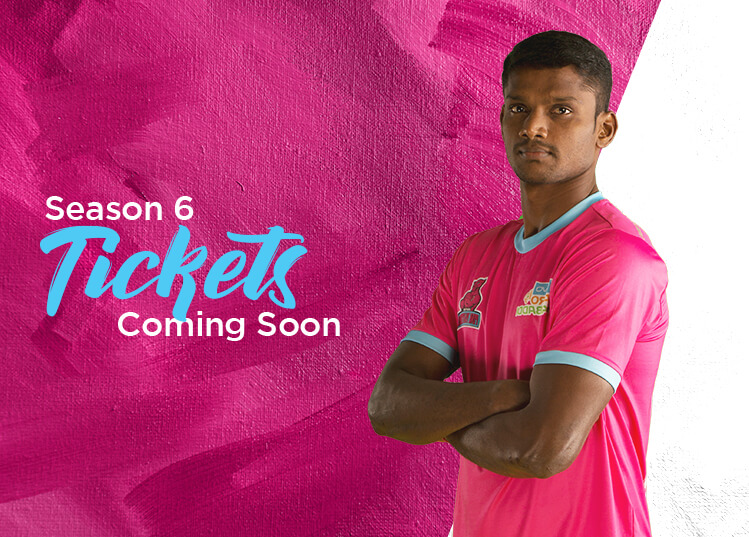
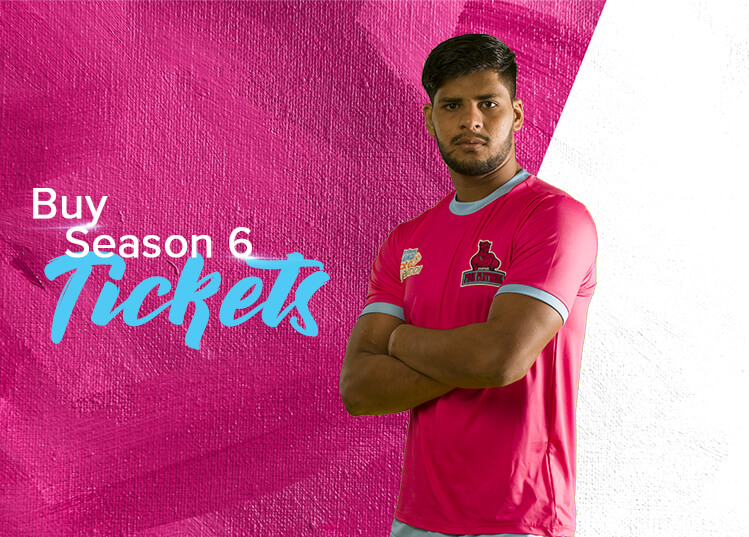
ui changes

diff --git a/views/content/home.html b/views/content/home.html
@@ -716,9 +716,9 @@
         <div class="row margin0">
             <div class="col-md-6 padding0">
                 <div class="by-ticket">
-                    <!-- <a ui-sref="home" ng-if="currentlang=='en'"> -->
-                    <img src="img/homes/buyticktes.jpg" alt="" class="full-image">
-                    <!-- </a> -->
+                    <a ui-sref="ticket" ng-if="currentlang=='en'">
+                        <img src="img/homes/buyticktes.jpg" alt="" class="full-image">
+                    </a>
                     <!-- <a ui-sref="home" ng-if="currentlang=='hi'">
                         <img src="img/homes/buyticktes.jpg" alt="" class="full-image">
                     </a> -->

diff --git a/js/navigation.js b/js/navigation.js
@@ -44,8 +44,8 @@ var navigationservice = angular.module('navigationservice', [])
                 // }
             }, {
                 name: "Tickets",
-                // url: "ticket",
-                url: "come",
+                url: "ticket",
+                // url: "come",
                 classis: "active",
                 //highlighter: "high"
             }, {

diff --git a/views/content/ticket.html b/views/content/ticket.html
@@ -71,9 +71,9 @@
       <!-- </a> -->
     </div>
 
-    <a ui-sref="ticket-merchandise">
+    <!-- <a ui-sref="ticket-merchandise">
       <img src="img/seasonfive/merchandise.png" class="img-responsive" style="margin-top:50px;">
-    </a>
+    </a> -->
 
   </div>
 
